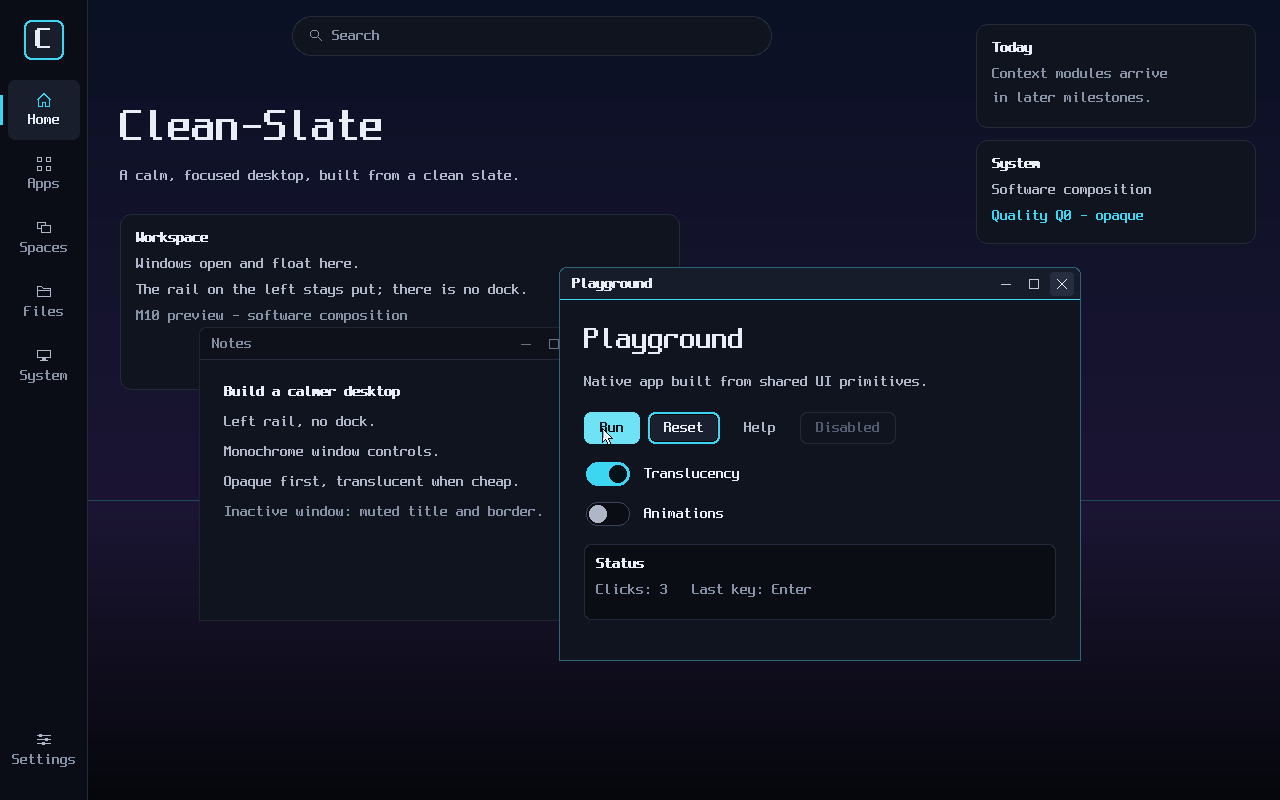
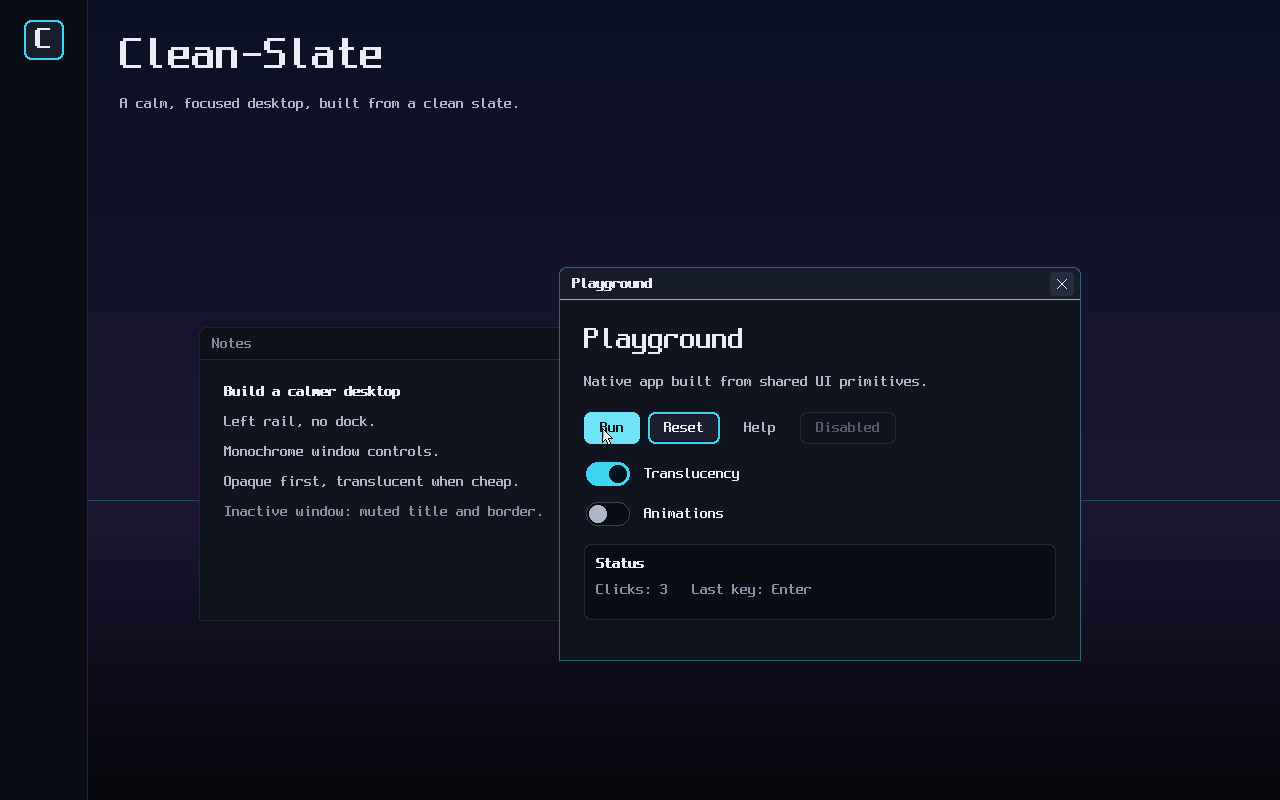
Stop drawing the no-op minimize and maximize controls (#115); cover EPIPE in the compositor-gone tests (#315)
Close is now the only window control: ChromeControl loses Minimize and
Maximize, ChromeState loses maximized, and the compositor's control
action and trace names follow. The title now runs up to the close
button. A compositor test proves the old slots are plain title bar and
a click there neither closes nor configures the window. UI goldens and
the M10 reference PNGs are refreshed; the design docs say Close only.

#315: the runtime already maps ESTALE and EPIPE to Gone (#317). The
playground and desktop shell host tests now cover a disconnect (EPIPE)
as well as a compositor exit (ESTALE).

Claude-Session: https://claude.ai/code/session_01DV5MQT9kYoWCGrx2U6gCFJ

diff --git a/ui/src/chrome.rs b/ui/src/chrome.rs
@@ -14,28 +14,28 @@ use crate::quality::Style;
 use crate::text;
 use crate::tokens::{ChromeMetrics, Rgba, ShadowToken};
 
-/// Window control buttons, right to left order is Close, Maximize, Minimize.
+/// Window control buttons, right to left in the title bar.
+///
+/// Only controls that act are drawn and hit-tested. Minimise and maximise were removed in #115
+/// while they did nothing; they come back with a minimised-window list in the rail.
 #[derive(Clone, Copy, Debug, PartialEq, Eq)]
 pub enum ChromeControl {
-    /// Minimise.
-    Minimize,
-    /// Maximise or restore.
-    Maximize,
     /// Close.
     Close,
 }
 
 impl ChromeControl {
     /// Left-to-right order in the title bar.
-    pub const ALL: [Self; 3] = [Self::Minimize, Self::Maximize, Self::Close];
+    pub const ALL: [Self; 1] = [Self::Close];
 
     const fn slot_from_right(self) -> u32 {
         match self {
             Self::Close => 0,
-            Self::Maximize => 1,
-            Self::Minimize => 2,
         }
     }
+
+    /// The control furthest left, where the title must stop.
+    pub const LEFTMOST: Self = Self::ALL[0];
 }
 
 /// Visual state of one window frame, supplied by the window manager.
@@ -47,8 +47,6 @@ pub struct ChromeState {
     pub hovered: Option<ChromeControl>,
     /// Control held by the pointer.
     pub pressed: Option<ChromeControl>,
-    /// Maximised (the maximise glyph shows "restore").
-    pub maximized: bool,
 }
 
 /// The narrow chrome boundary between the theme and the window manager.
@@ -225,51 +223,15 @@ impl<'t> CleanSlateChrome<'t> {
             width: 10,
             height: 10,
         });
-        paint_control_glyph(canvas, glyph, control, state.maximized, fg);
+        paint_control_glyph(canvas, glyph, control, fg);
     }
 }
 
-fn paint_control_glyph(
-    canvas: &mut Canvas<'_>,
-    g: Rect,
-    control: ChromeControl,
-    maximized: bool,
-    color: Rgba,
-) {
+fn paint_control_glyph(canvas: &mut Canvas<'_>, g: Rect, control: ChromeControl, color: Rgba) {
     let c = color.premultiplied();
     let x1 = offset(g.x, g.width - 1);
     let y1 = offset(g.y, g.height - 1);
     match control {
-        ChromeControl::Minimize => {
-            fill(
-                canvas,
-                Rect {
-                    x: g.x,
-                    y: offset(g.y, g.height / 2),
-                    width: g.width,
-                    height: 1,
-                },
-                color,
-            );
-        }
-        ChromeControl::Maximize if maximized => {
-            let back = Rect {
-                x: offset(g.x, 2),
-                y: g.y,
-                width: g.width - 2,
-                height: g.height - 2,
-            };
-            let front = Rect {
-                x: g.x,
-                y: offset(g.y, 2),
-                width: g.width - 2,
-                height: g.height - 2,
-            };
-            canvas.hline(back.x, back.right() - 1, back.y, c);
-            canvas.vline(back.right() - 1, back.y, back.bottom() - 1, c);
-            canvas.stroke_rect(front, 1, c);
-        }
-        ChromeControl::Maximize => canvas.stroke_rect(g, 1, c),
         ChromeControl::Close => {
             canvas.line((g.x, g.y), (x1, y1), c);
             canvas.line((g.x, y1), (x1, g.y), c);
@@ -348,7 +310,7 @@ impl ChromeStyle for CleanSlateChrome<'_> {
             border_color,
         );
 
-        let leftmost = self.control_rect(frame, ChromeControl::Minimize);
+        let leftmost = self.control_rect(frame, ChromeControl::LEFTMOST);
         let title_style = if state.focused {
             t.type_scale.heading
         } else {
@@ -415,8 +377,10 @@ mod tests {
             assert!(r.x >= bar.x && r.right() <= bar.right());
             assert!(r.y >= bar.y && r.bottom() <= bar.bottom());
         }
-        assert!(rects[0].right() <= rects[1].x && rects[1].right() <= rects[2].x);
-        assert_eq!(rects[2].right(), bar.right() - 6);
+        for pair in rects.windows(2) {
+            assert!(pair[0].right() <= pair[1].x);
+        }
+        assert_eq!(rects[rects.len() - 1].right(), bar.right() - 6);
     }
 
     #[test]

diff --git a/compositor/src/tests/windows.rs b/compositor/src/tests/windows.rs
@@ -1293,8 +1293,31 @@ fn close_control_requests_close_on_release_over_it() {
         "released elsewhere"
     );
 
-    for control in [ChromeControl::Minimize, ChromeControl::Maximize] {
-        click(&mut h, control_point(A_AT, control));
+    // #115: close is the only control. Where minimise and maximise used to sit (one and two
+    // control steps left of close) is plain title bar: not drawn as a control, not a control
+    // target, and a click there neither closes nor configures the window.
+    let step = TestChrome.metrics().control_size + TestChrome.metrics().control_gap;
+    for slot in 1..=2 {
+        let at = Point {
+            x: close.x - (slot * step) as i32,
+            y: close.y,
+        };
+        assert_ne!(
+            px(
+                &h,
+                Point {
+                    x: at.x - 1,
+                    ..close_probe
+                }
+            ),
+            CONTROL
+        );
+        assert_eq!(
+            crate::wm::decoration_target(&TestChrome, content(A_AT, SIDE, SIDE), at),
+            Some(Target::TitleBar),
+            "slot {slot}"
+        );
+        click(&mut h, at);
     }
     let inbox = h.drain(&a);
     assert_eq!(
@@ -1303,7 +1326,7 @@ fn close_control_requests_close_on_release_over_it() {
     );
     assert!(
         configures(&inbox, wa).is_empty(),
-        "reserved controls do nothing in M10"
+        "the old minimise and maximise slots do nothing"
     );
 
     click(&mut h, close);

diff --git a/ui/src/tests.rs b/ui/src/tests.rs
@@ -774,10 +774,10 @@ fn long_titles_stop_before_the_controls() {
             },
         )
     });
-    let minimize = chrome.control_rect(frame, ChromeControl::Minimize);
+    let leftmost = chrome.control_rect(frame, ChromeControl::LEFTMOST);
     let bar = THEME.palette.chrome_active_bar;
-    let gap_x = minimize.x - 4;
-    for y in minimize.y..minimize.bottom() {
+    let gap_x = leftmost.x - 4;
+    for y in leftmost.y..leftmost.bottom() {
         assert_eq!(buf.rgb(Point { x: gap_x, y }), bar);
     }
 }
@@ -950,7 +950,7 @@ fn golden_cases() -> Vec<Case> {
                     "Playground",
                     ChromeState {
                         focused,
-                        hovered: Some(ChromeControl::Maximize),
+                        hovered: Some(ChromeControl::Close),
                         ..ChromeState::default()
                     },
                 )
@@ -1046,9 +1046,9 @@ const GOLDENS: &[(&str, u32)] = &[
     ("rail.item.selected", 0x4DD636C3),
     ("rail.item.focused", 0x2F4A8B31),
     ("rail.item.running", 0x82B8EB47),
-    ("chrome.focused.q0", 0x31856294),
-    ("chrome.inactive.q0", 0x8EF80909),
-    ("chrome.focused.q1", 0x87695C3E),
+    ("chrome.focused.q0", 0xAFFBC855),
+    ("chrome.inactive.q0", 0x5894DF96),
+    ("chrome.focused.q1", 0x1917F6FF),
     ("cursor.arrow", 0xE40C4E42),
     ("icons", 0x1B10B562),
     ("search.field", 0xAD241DA3),

diff --git a/playground/src/host.rs b/playground/src/host.rs
@@ -77,4 +77,17 @@ mod tests {
         let outcome = Outcome::Exit(ExitReason::HostFailed(received));
         assert_eq!(exit_reason(outcome), "compositor-gone");
     }
+
+    /// #315: a compositor that disconnected the app (the send sees `EPIPE`, not `ESTALE`) is
+    /// `Gone` too, so the exit still reads as `compositor-gone`.
+    #[test]
+    fn a_compositor_disconnect_reads_as_compositor_gone_on_send() {
+        let mut client = client();
+        allocate_buffers(&mut client).expect("buffers");
+        client.sys().server_disconnect(0);
+        let sent = Host::send(&mut client, &Request::CreateSurface, None);
+        assert_eq!(sent, Err(HostError::Gone));
+        let outcome = Outcome::Exit(ExitReason::HostFailed(sent.unwrap_err()));
+        assert_eq!(exit_reason(outcome), "compositor-gone");
+    }
 }

diff --git a/desktop-shell/src/host.rs b/desktop-shell/src/host.rs
@@ -71,4 +71,16 @@ mod tests {
         let outcome = Outcome::Exit(ExitReason::HostFailed(received));
         assert_eq!(exit_reason(outcome), "compositor-gone");
     }
+
+    /// #315: a compositor that disconnected the app (the send sees `EPIPE`, not `ESTALE`) is
+    /// `Gone` too, so the exit still reads as `compositor-gone`.
+    #[test]
+    fn a_compositor_disconnect_reads_as_compositor_gone_on_send() {
+        let mut client = client();
+        client.sys().server_disconnect(0);
+        let sent = Host::send(&mut client, &Request::CreateSurface, None);
+        assert_eq!(sent, Err(HostError::Gone));
+        let outcome = Outcome::Exit(ExitReason::HostFailed(sent.unwrap_err()));
+        assert_eq!(exit_reason(outcome), "compositor-gone");
+    }
 }

diff --git a/compositor/src/compositor/routing.rs b/compositor/src/compositor/routing.rs
@@ -747,13 +747,12 @@ impl<P: WindowPolicy> Compositor<P> {
         }
     }
 
-    /// Server-side decoration actions. Minimise and maximise are reserved vocabulary in M10.
+    /// Server-side decoration actions. Close is the only control the chrome draws (#115).
     fn control_action(&mut self, key: SurfaceKey, control: ChromeControl) {
         match control {
             ChromeControl::Close => {
                 self.request_close(key);
             }
-            ChromeControl::Minimize | ChromeControl::Maximize => {}
         }
     }
 

diff --git a/compositor/src/compositor.rs b/compositor/src/compositor.rs
@@ -1396,7 +1396,6 @@ impl<P: WindowPolicy> Compositor<P> {
                                 focused: self.wm.focus == Some(key),
                                 hovered: control(self.wm.hover),
                                 pressed: control(self.wm.control_press),
-                                maximized: false,
                             },
                         })
                     }

diff --git a/compositor/src/trace.rs b/compositor/src/trace.rs
@@ -48,8 +48,6 @@ impl ButtonHit {
             Self::Content => "content",
             Self::Title => "title",
             Self::Control(ChromeControl::Close) => "close",
-            Self::Control(ChromeControl::Minimize) => "minimize",
-            Self::Control(ChromeControl::Maximize) => "maximize",
             Self::Resize => "resize",
         }
     }

diff --git a/docs/GRAPHICS.md b/docs/GRAPHICS.md
@@ -66,7 +66,7 @@ Items marked **(planned)** are fixed in shape but not implemented; their owning 
   - *Text input and key repeat (#309).* For a focused client that negotiated `TEXT_INPUT`, a key press is followed by `Text` when `Config::layout` types something, and the newest held key that repeats is re-sent as `KeyRepeat` (plus its `Text`) after `Config::repeat.delay_ns`, then every `interval_ns` (defaults 500 ms and 30 per second; interval 0 turns repeat off). The repeat deadline joins the loop's wait deadline only while a key is held, so an idle desktop still blocks with none. A late wake sends one repeat, not a burst. Release, another key press, a focus change and `InputReset` stop it.
   - *Window list (#237).* After every loop turn `compositor::window_list` compares the shown toplevels and the focus with what it last reported, and tells every `WINDOW_LIST` connection what changed: `WindowRemoved`, then `WindowAdded` plus `WindowTitle` for a new window, `WindowTitle` on a retitle, then `WindowFocused`. A connection that has just negotiated the feature gets the whole list and the focus first. No show, hide, destroy or focus path reports anything itself, so none can forget to. `ActivateWindow` from the shell raises and focuses a listed window exactly as a click on it would; a handle no longer listed is `InvalidObject`, and any other connection gets `UnsupportedFeature`.
   - *Seat routing.* Keys go only to the focused client. Pointer events go to the surface under the pointer (input region aware), or to the capturing surface while a button pressed on it is held. `Overflow` ends every gesture and sends `InputReset` then `ModifiersChanged` to the focused client.
-  - *Decorations.* Server-side for toplevels: title-bar press starts a move grab, border or resize-margin press starts a resize grab, Close press-and-release posts `CloseRequested` (Minimise and Maximise are reserved no-ops in M10).
+  - *Decorations.* Server-side for toplevels: title-bar press starts a move grab, border or resize-margin press starts a resize grab, Close press-and-release posts `CloseRequested` (Close is the only control drawn; Minimise and Maximise return with a minimised-window list in the rail, #115).
   - *Move and resize.* A move only changes the scene origin (no client repaint), keeping `MIN_VISIBLE` pixels and the title bar on the output; all arithmetic is `i64` and saturating. A resize sends `Configure` with the size clamped to the client's limits and the output; a left or top resize keeps the opposite edge fixed when the client commits. Client `BeginMove` / `BeginResize` must quote the live press serial the client received on that window, still held and captured.
   - *Cursor.* The software cursor is painted by the compositor above every layer and damages exactly its old and new rects. Clients cannot take the `Cursor` role (`UnsupportedFeature`) or `SystemOverlay` (`GFX_OVERLAY`, held by nobody).
   - *Teardown.* Every `Wm` reference is a generation-safe `SurfaceKey` revalidated after each request drain and input batch; destroying a window or surface purges its queued unsolicited `Configure`, `CloseRequested` and `FrameDone`.

diff --git a/docs/design/DESIGN-SYSTEM.md b/docs/design/DESIGN-SYSTEM.md
@@ -147,7 +147,7 @@ The window manager (#115, `compositor::wm`) owns decoration behaviour: hit testi
 | Title bar height | 32 (inside the border) |
 | Border | 1 |
 | Top corner radius | 8 (the bottom corners are square, so the client surface is never clipped) |
-| Controls | 24×24, 4 px apart, 6 px from the right edge; order Minimize, Maximize/Restore, Close |
+| Controls | 24×24, 6 px from the right edge; Close only (Minimize and Maximize return with a minimized-window list in the rail, #115) |
 | Title padding | 12 (title left-aligned, truncated before the controls) |
 | Resize margin | 6, invisible and outside the border |
 
